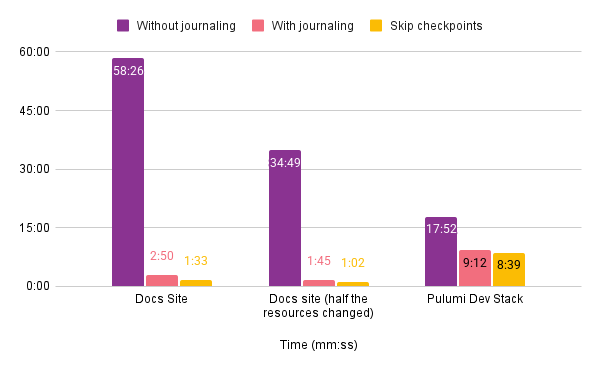
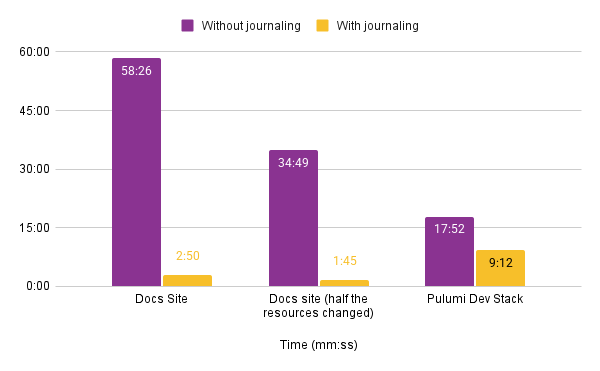
remove skip checkpoints benchmark

diff --git a/content/blog/journaling/index.md b/content/blog/journaling/index.md
@@ -44,11 +44,11 @@ social:
         # The Results
         In benchmarks when creating a 3,000+ resource stack:
 
-            Time dropped from 58 minutes to 3 minutes
+            Time dropped from 58 minutes to 2.5 minutes
             Network traffic cut from 16.5MB to 2.3MB
 
         # Why This Matters
-        You get the speed without sacrificing data integrity. Unlike SKIP_CHECKPOINTS, journaling still tracks all in-flight operations. If something fails mid-deployment, `pulumi` still knows exactly what happened.
+        You get the speed without sacrificing data integrity. Journaling still tracks all in-flight operations. If something fails mid-deployment, `pulumi` knows exactly what happened.
 
         # Get Started
         This feature is in opt-in testing. Reach out on Pulumi Community Slack or through Support to get your org enrolled. Then set PULUMI_ENABLE_JOURNALING=true.
@@ -69,13 +69,12 @@ We're benchmarking two somewhat large stacks, both of which are or were used at 
 
 The benchmarks were measured using the `time` built-in command and using the best time in a best-of-three benchmark. The network traffic was measured using `tcpdump`, limiting the measured traffic to only the IP addresses for Pulumi Cloud. Finally, `tshark` was used to process the packet captures and count the bytes sent.
 
-All the benchmarks are run with journaling off (the default experience), with journaling on (the new experience), and finally with `PULUMI_SKIP_CHECKPOINTS=true` set. The last configuration skips uploading intermediate checkpoints to the backend, which increases performance at the cost of potentially losing track of changes that are in flight if the `pulumi` CLI loses connectivity or exits unexpectedly.
+All the benchmarks are run with journaling off (the default experience), with journaling on (the new experience).
 
 |                    | Time   | Bytes sent |
 |--------------------|--------|------------|
 | Without journaling | 58m26s | 16.5MB     |
 | With journaling    | 02m50s | 2.3MB      |
-| Skip checkpoints   | 01m33s | 1.9MB      |
 
 These numbers are for setting up the stack from scratch. Now let's have a look at what this looks like if we only change half the resources, but the remaining ones remain unchanged:
 
@@ -83,7 +82,6 @@ These numbers are for setting up the stack from scratch. Now let's have a look a
 |--------------------|--------|------------|
 | Without journaling | 34m49s | 13.8MB     |
 | With journaling    | 01m45s | 2.3MB      |
-| Skip checkpoints   | 01m02s | 2.1MB      |
 
 The second example is setting up an instance of the Pulumi app and API. Here we'll have an example that's a bit more dominated by the cost of setting up the actual infrastructure in the cloud, but we still have a very noticeable improvement in the time it takes to set up the stack.
 
@@ -91,7 +89,6 @@ The second example is setting up an instance of the Pulumi app and API. Here we'
 |--------------------|--------|------------|
 | Without journaling | 17m52s | 18.5MB     |
 | With journaling    | 9m12s  | 5.9MB      |
-| Skip checkpoints   | 8m39s  | 2MB        |
 
 ![Comparison chart of the timings shown in the tables above](time.png)
 
